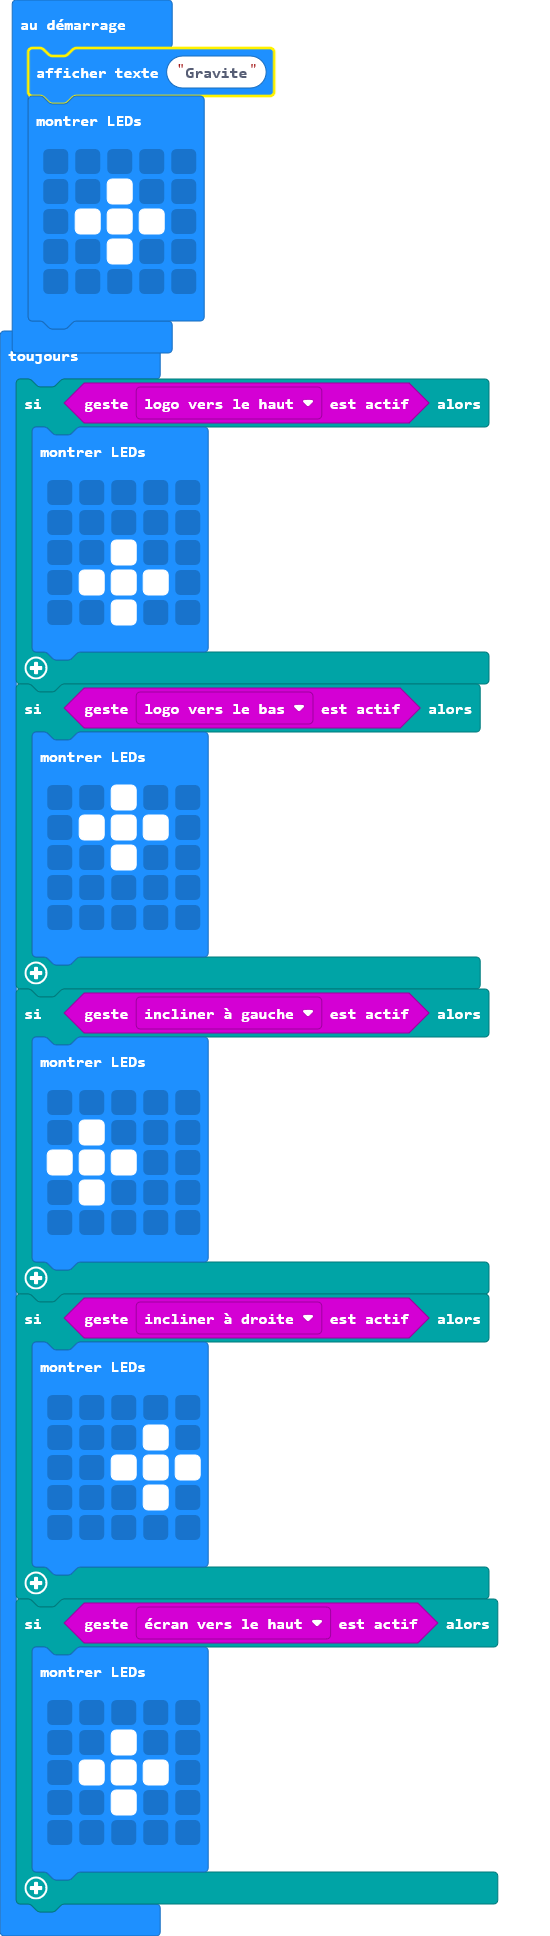
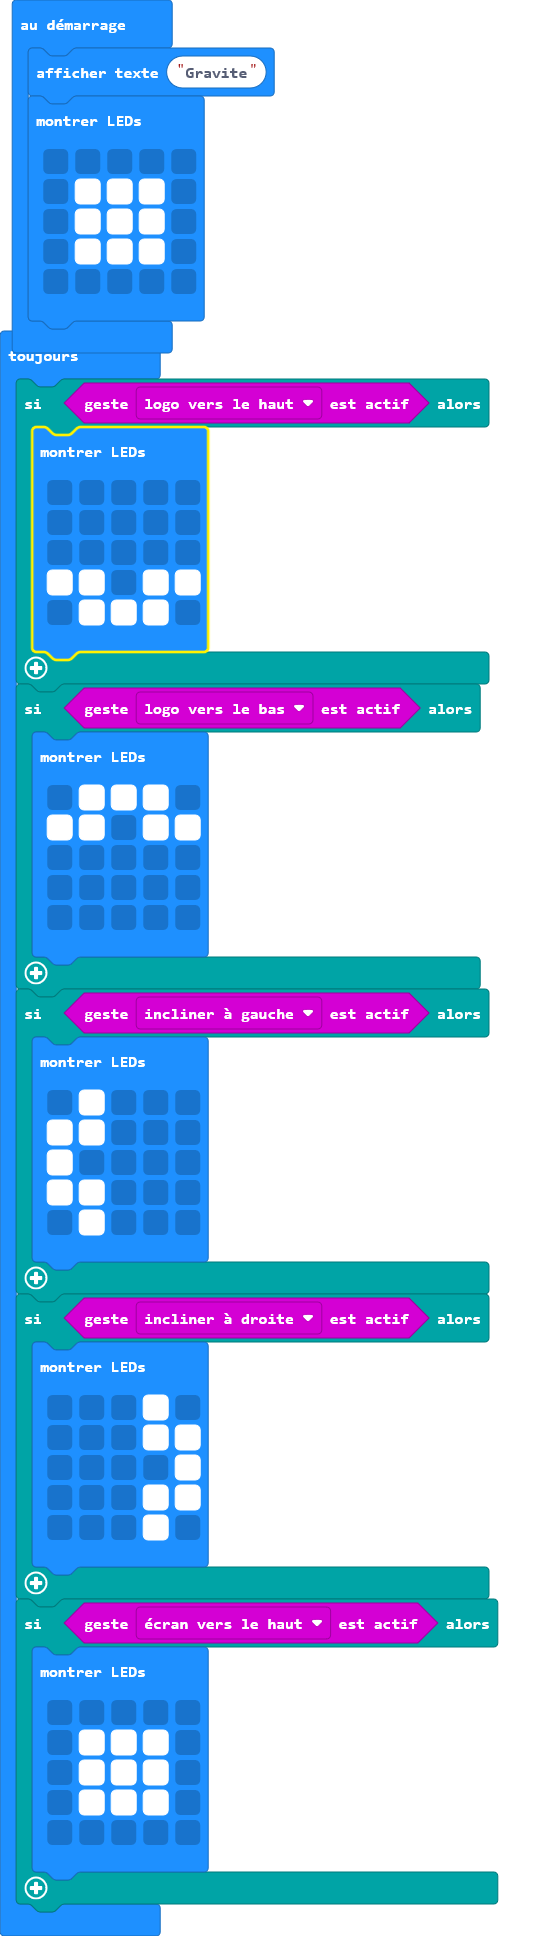
Changement des icônes

diff --git a/main.ts b/main.ts
@@ -1,9 +1,9 @@
 basic.showString("Gravite")
 basic.showLeds(`
     . . . . .
-    . . # . .
     . # # # .
-    . . # . .
+    . # # # .
+    . # # # .
     . . . . .
     `)
 basic.forever(function () {
@@ -11,44 +11,44 @@ basic.forever(function () {
         basic.showLeds(`
             . . . . .
             . . . . .
-            . . # . .
+            . . . . .
+            # # . # #
             . # # # .
-            . . # . .
             `)
     }
     if (input.isGesture(Gesture.LogoDown)) {
         basic.showLeds(`
-            . . # . .
             . # # # .
-            . . # . .
+            # # . # #
+            . . . . .
             . . . . .
             . . . . .
             `)
     }
     if (input.isGesture(Gesture.TiltLeft)) {
         basic.showLeds(`
-            . . . . .
             . # . . .
-            # # # . .
+            # # . . .
+            # . . . .
+            # # . . .
             . # . . .
-            . . . . .
             `)
     }
     if (input.isGesture(Gesture.TiltRight)) {
         basic.showLeds(`
-            . . . . .
             . . . # .
-            . . # # #
+            . . . # #
+            . . . . #
+            . . . # #
             . . . # .
-            . . . . .
             `)
     }
     if (input.isGesture(Gesture.ScreenUp)) {
         basic.showLeds(`
             . . . . .
-            . . # . .
             . # # # .
-            . . # . .
+            . # # # .
+            . # # # .
             . . . . .
             `)
     }
